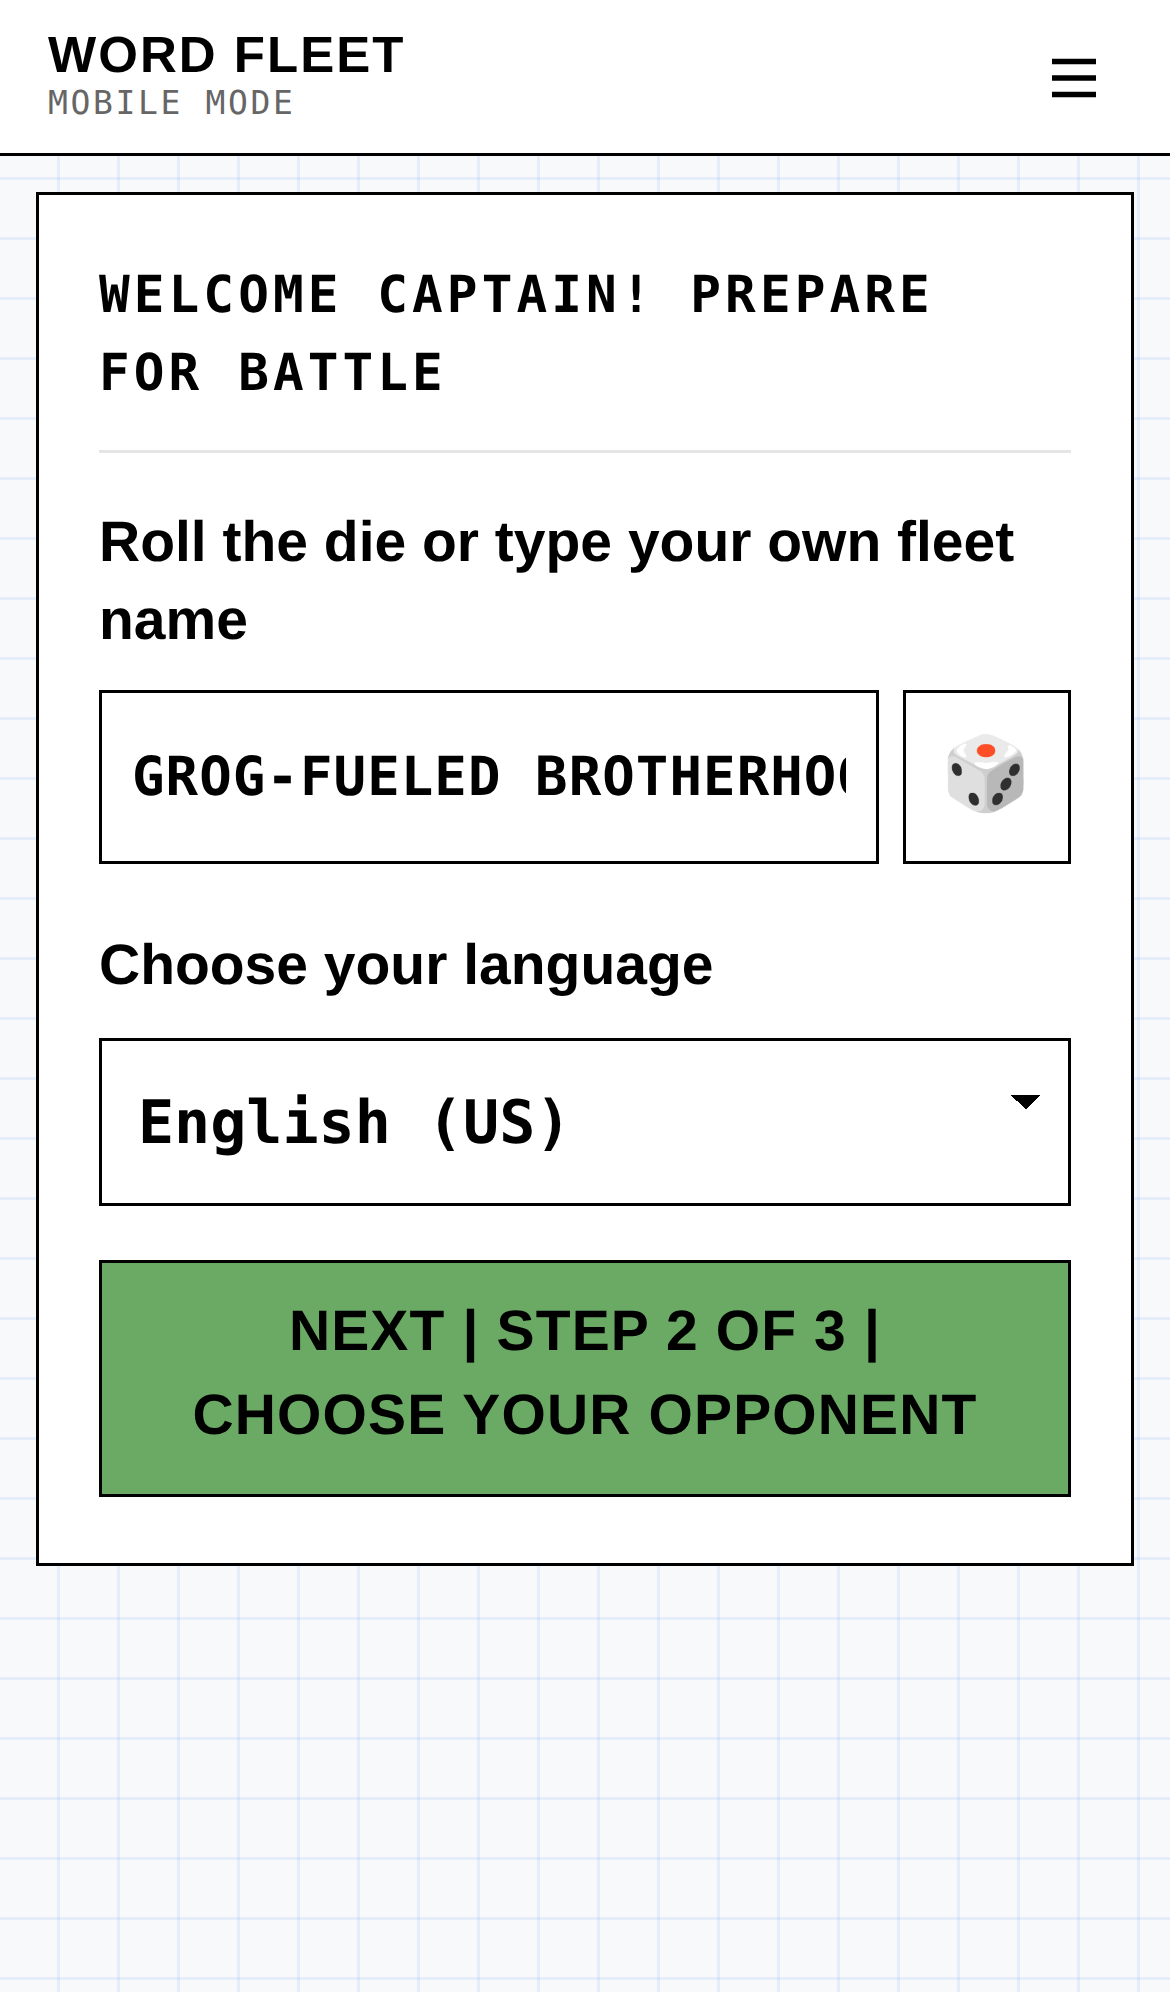
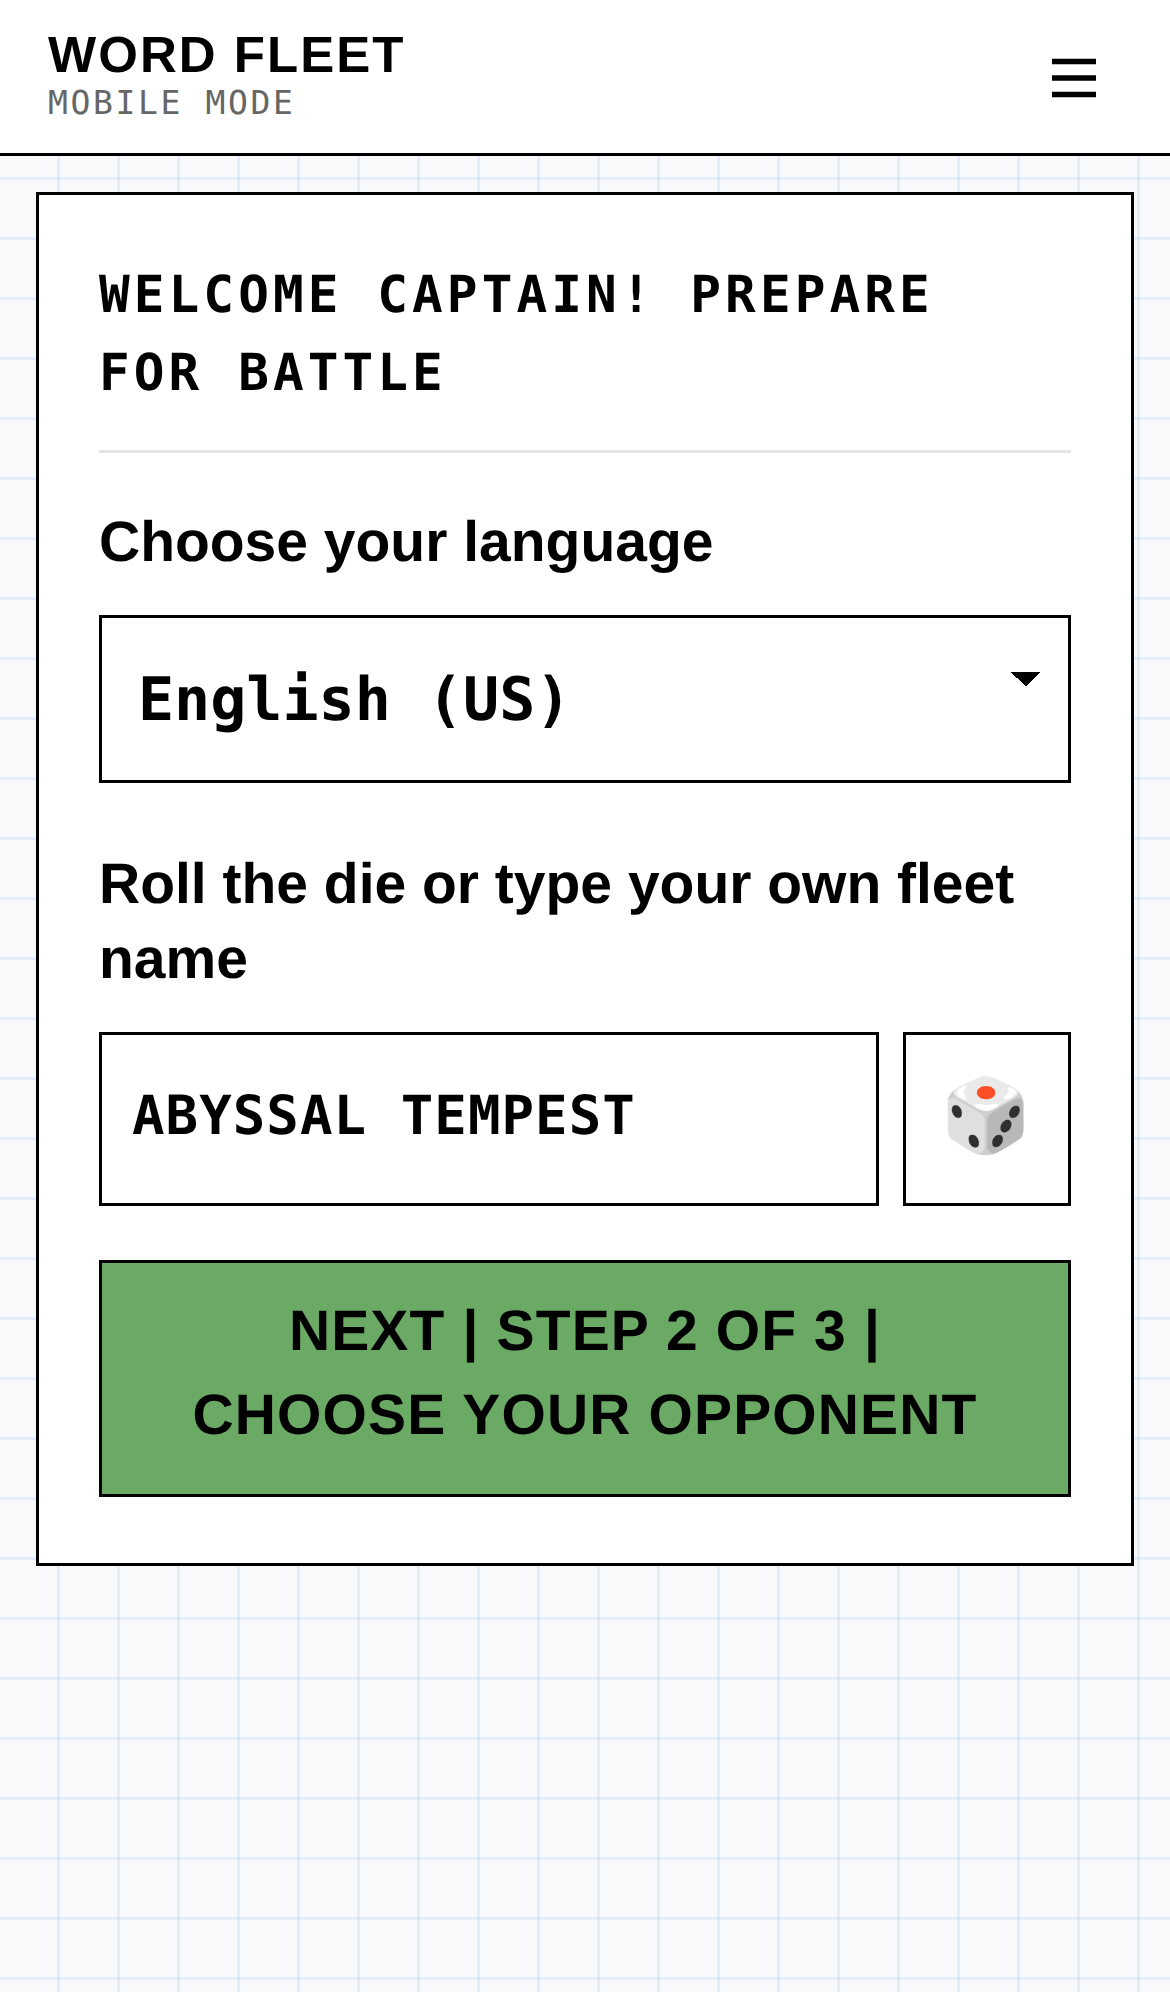
001: language first, fleet names per language (rolls on language change); 002 button NEXT | STEP 3 OF 3
- dictionaries/fleet-names.json: fleet-name parts for English (UK), Spanish (noun + adjective, m/f agreement) and German (adjective endings by gender)
- Long fleet names shrink to fit on small phones

Claude-Session: https://claude.ai/code/session_013sUGAAEC45a1EJCrQWVj9Q

diff --git a/mobile/app.js b/mobile/app.js
@@ -65,7 +65,21 @@
   function rnd(n) { return Math.floor(Math.random() * n); }
   function pad3(n) { return ('00' + n).slice(-3); }
   function countOf(word, L) { var n = 0; for (var i = 0; i < word.length; i++) if (word[i] === L) n++; return n; }
-  function randomFleetName() { return (pick(FLEET_ADJ) + ' ' + pick(FLEET_NOUN)).toUpperCase(); }
+  // Fleet names in other languages come from dictionaries/fleet-names.json (see its _about).
+  var fleetNames = {};
+  function fleetNameOnce(set) {
+    if (!set) return pick(FLEET_ADJ) + ' ' + pick(FLEET_NOUN);
+    var n = pick(set.noun), g = n.charAt(1) === ':' ? n.charAt(0) : '', a = pick(set.adj);
+    if (g) n = n.slice(2);
+    if (a.indexOf('|') !== -1) a = a.split('|')[g === 'f' ? 1 : 0];                       // Spanish m|f
+    else if (a.slice(-1) === '-') a = a.slice(0, -1) + ({ m: 'er', f: 'e', n: 'es' }[g] || 'e'); // German endings
+    return set.order === 'noun adj' ? n + ' ' + a : a + ' ' + n;
+  }
+  function randomFleetName() {
+    var set = fleetNames[(S && S.lang) || (lang && lang.code)], name;
+    for (var i = 0; i < 20; i++) { name = fleetNameOnce(set); if (name.length <= 20) break; }   // short enough to read at a large size
+    return name.toUpperCase();
+  }
   function allSame(w) { return w.split('').every(function (ch) { return ch === w[0]; }); }
 
   // ------------------------------------------------------------
@@ -79,6 +93,12 @@
   var offensiveSet = {};
   var dictSet = {};     // every playable word -> tier name
   var guessPool = {};   // length -> [{ w, wt }] for the AI Captain's letter reads
+
+  function loadFleetNames() {
+    return fetch('../dictionaries/fleet-names.json')
+      .then(function (res) { return res.ok ? res.json() : {}; })
+      .then(function (d) { fleetNames = d || {}; }, function () {});
+  }
 
   function loadDictionary(code) {
     return fetch('../dictionaries/languages.json')
@@ -349,6 +369,7 @@
   function renderSetup() {
     setBar(null);
     if (document.activeElement !== $('inFleet')) $('inFleet').value = S.me.name;
+    fitFleetName();
     $('selLang').innerHTML = languages.map(function (l) {
       return '<option value="' + esc(l.code) + '"' + (lang && l.code === lang.code ? ' selected' : '') + '>' + esc(l.name) + '</option>';
     }).join('');
@@ -1116,8 +1137,16 @@
   on($('btnHowTo'), 'click', openRules);
 
   // setup
-  on($('inFleet'), 'input', function () { S.me.name = this.value.toUpperCase(); save(); });
-  on($('btnRollName'), 'click', function () { S.me.name = randomFleetName(); $('inFleet').value = S.me.name; save(); });
+  // Shrink long fleet names so the whole name shows on small phones.
+  function fitFleetName() {
+    var el = $('inFleet'); if (!el) return;
+    el.style.fontSize = ''; el.style.letterSpacing = '';
+    if (el.scrollWidth > el.clientWidth) el.style.letterSpacing = '0';
+    var size = parseFloat(getComputedStyle(el).fontSize);
+    while (el.scrollWidth > el.clientWidth && size > 11) el.style.fontSize = (size -= 1) + 'px';
+  }
+  on($('inFleet'), 'input', function () { S.me.name = this.value.toUpperCase(); fitFleetName(); save(); });
+  on($('btnRollName'), 'click', function () { S.me.name = randomFleetName(); $('inFleet').value = S.me.name; fitFleetName(); save(); });
   on($('segLevel'), 'click', function (e) {
     var v = e.target.getAttribute('data-v');
     if (!v) return;
@@ -1146,7 +1175,9 @@
     S.lang = this.value;
     save();
     loadDictionary(S.lang).then(function () {
-      if (!S.wordsEdited) { S.me.words = randomWords(); save(); }
+      S.me.name = randomFleetName();   // a fresh fleet name in the new language
+      if (!S.wordsEdited) S.me.words = randomWords();
+      save();
       renderSetup();
     });
   });
@@ -1350,7 +1381,7 @@
   if (S && (S.v !== 2 || !LEVELS[S.level])) S = null;   // v1 saves used the old firing rules
   // Games saved while the launch-codes screen still existed go straight to battle.
   if (S && S.phase === 'codes') { S.phase = 'battle'; S.turn = 'me'; }
-  loadDictionary(S && S.lang).then(function () {
+  Promise.all([loadDictionary(S && S.lang), loadFleetNames()]).then(function () {
     if (S && S.phase === 'setup' && !S.me.name) { S.me.name = randomFleetName(); save(); }
     if (S && S.phase === 'setup' && !S.wordsEdited && !S.me.words.every(inDictionary)) {
       S.me.words = randomWords(); save();

diff --git a/mobile/index.html b/mobile/index.html
@@ -18,7 +18,7 @@
   <link rel="preconnect" href="https://fonts.gstatic.com" crossorigin>
   <link href="https://fonts.googleapis.com/css2?family=Courier+Prime:wght@400;700&family=Inter:wght@400;500;600;700&display=swap" rel="stylesheet">
   <!-- Bump ?v= on every release (and CACHE in sw.js) so a new page never runs old code. -->
-  <link rel="stylesheet" href="app.css?v=41">
+  <link rel="stylesheet" href="app.css?v=42">
 </head>
 <body>
 
@@ -55,14 +55,14 @@
   <section class="screen setup-big" id="scrSetup" data-screen="001-MOBILE-PREPARE">
     <div class="card">
       <div class="card-title">Welcome Captain! Prepare for Battle</div>
+      <label class="label label--say" for="selLang">Choose your language</label>
+      <select class="select" id="selLang"></select>
+
       <label class="label label--say" for="inFleet">Roll the die or type your own fleet name</label>
       <div class="input-row">
         <input class="input" id="inFleet" maxlength="24" autocomplete="off" autocapitalize="characters" spellcheck="false" placeholder="SALTY ARMADA">
         <button class="btn btn--sq" id="btnRollName" type="button" aria-label="Random fleet name">&#x1F3B2;</button>
       </div>
-
-      <label class="label label--say" for="selLang">Choose your language</label>
-      <select class="select" id="selLang"></select>
 
       <button class="btn btn--primary btn--wide btn--next" id="btnToOpponent" type="button">NEXT | STEP 2 OF 3 | CHOOSE YOUR OPPONENT</button>
     </div>
@@ -79,7 +79,7 @@
       </div>
       <p class="hint" id="levelHint"></p>
 
-      <button class="btn btn--primary btn--wide btn--next" id="btnToWords" type="button">STEP 3 of 3: Build Your Word-Ships</button>
+      <button class="btn btn--primary btn--wide btn--next" id="btnToWords" type="button">NEXT | STEP 3 OF 3 | BUILD YOUR WORD-SHIPS</button>
       <button class="btn btn--ghost btn--wide" id="btnBackToSetup" type="button">&larr; Back</button>
     </div>
   </section>
@@ -211,7 +211,7 @@
 
 <div class="toast" id="toast" hidden></div>
 
-<script src="audio.js?v=41"></script>
-<script src="app.js?v=41"></script>
+<script src="audio.js?v=42"></script>
+<script src="app.js?v=42"></script>
 </body>
 </html>

diff --git a/mobile/sw.js b/mobile/sw.js
@@ -1,16 +1,17 @@
 /* Word Fleet service worker: the whole game works offline once loaded. */
-var CACHE = 'wordfleet-v41';
+var CACHE = 'wordfleet-v42';
 var SHELL = [
   './',
   'index.html',
-  'app.css?v=41',
-  'app.js?v=41',
-  'audio.js?v=41',
+  'app.css?v=42',
+  'app.js?v=42',
+  'audio.js?v=42',
   'manifest.webmanifest',
   'icons/icon-180.png',
   'icons/icon-192.png',
   'icons/icon-512.png',
   '../dictionaries/languages.json',
+  '../dictionaries/fleet-names.json',
   '../dictionaries/en-US.json',
   '../dictionaries/en-GB.json',
   '../dictionaries/es.json',

diff --git a/mobile/screens/README.md b/mobile/screens/README.md
@@ -8,7 +8,7 @@ referred to by name when asking for changes. Each has a reference snapshot in th
 | Name | In the code | Snapshot | What it is |
 | --- | --- | --- | --- |
 | **MOBILE-HOME** *(parked)* | `<section id="scrMobileHome" data-screen="MOBILE-HOME">`, `SCREENS.home` | `mobile-home.png` | **Parked, not shown to players.** Kept for later use. Was the first screen: WORD FLEET title, Mobile Mode tag, blurb, New Battle and Rules of Engagement buttons. The app now opens on 001-MOBILE-PREPARE. |
-| **001-MOBILE-PREPARE** | `<section id="scrSetup" data-screen="001-MOBILE-PREPARE">`, `SCREENS.setup` | `001-mobile-prepare.png` | **First screen players see.** Title "Welcome Captain! Prepare for Battle". "Roll the die or type your own fleet name" (with dice), "Choose your language". Screens 001-003 use large, easy-to-read text (`.setup-big`). |
-| **002-MOBILE-OPPONENT** | `<section id="scrOpponent" data-screen="002-MOBILE-OPPONENT">`, `SCREENS.opponent` | `002-mobile-opponent.png` | The three AI Captains (Captain Rubber Duck, Captain Steady, Captain Lexicon), each with a short character sketch. |
+| **001-MOBILE-PREPARE** | `<section id="scrSetup" data-screen="001-MOBILE-PREPARE">`, `SCREENS.setup` | `001-mobile-prepare.png` | **First screen players see.** Title "Welcome Captain! Prepare for Battle". "Choose your language", then "Roll the die or type your own fleet name" (with dice). Changing language rolls a new fleet name in that language (`dictionaries/fleet-names.json`). Button "NEXT | STEP 2 OF 3 | CHOOSE YOUR OPPONENT". Screens 001-003 use large, easy-to-read text (`.setup-big`). |
+| **002-MOBILE-OPPONENT** | `<section id="scrOpponent" data-screen="002-MOBILE-OPPONENT">`, `SCREENS.opponent` | `002-mobile-opponent.png` | The three AI Captains (Captain Rubber Duck, Captain Steady, Captain Lexicon), each with a short character sketch. Button "NEXT | STEP 3 OF 3 | BUILD YOUR WORD-SHIPS". |
 | **003-MOBILE-WORD-SHIPS** | `<section id="scrWords" data-screen="003-MOBILE-WORD-SHIPS">`, `SCREENS.words` | `003-mobile-word-ships.png` | Possibly Offensive Words OK at the top; the five word-ships arrive drawn for your opponent and are editable, each with a ↻ redraw; Refresh All; Deploy Fleet checks every word against the dictionary. |
 | **004-MOBILE-DEPLOY** | `<section id="scrDeploy" data-screen="004-MOBILE-DEPLOY">`, `SCREENS.deploy` | `004-mobile-deploy.png`, `004-mobile-deploy-placed.png` | Place the five word-ships on your Defense Grid: Across/Down, Scatter, Clear, the roster of ships, Confirm Deployment, Change Words. Drag a ship to move it; double-tap its first letter to turn it. |

diff --git a/dictionaries/README.md b/dictionaries/README.md
@@ -10,6 +10,7 @@ All of Word Fleet's word data lives here.
 | `build-en.js` | Builds `en-US.json` / `en-GB.json` from SCOWL. |
 | `build-hunspell.js` | Builds `es.json` / `de.json` from Hunspell dictionaries and frequency lists. |
 | `offensive-en-US.txt`, `offensive-en-GB.txt`, `offensive-es.txt`, `offensive-de.txt` | Possibly offensive words (the GB file adds British words to the US list). Hidden from both captains unless **Possibly Offensive Words OK** is checked. Edit freely, then rebuild. |
+| `fleet-names.json` | Fleet-name parts (adjectives and nouns) for English (UK), Spanish and German, used by the fleet-name dice. English (US) is built into `mobile/app.js`. Hand-edited; see `_about` inside for the format. |
 | `words.xml` | The original word list used by the printable Pen & Paper Battle Tracker. |
 | `SCOWL-LICENSE.txt`, `LDNOOBW-LICENSE.txt`, `HUNSPELL-es-LICENSE.txt`, `HUNSPELL-de-LICENSE.txt` | Licenses for the source word lists. |
 
